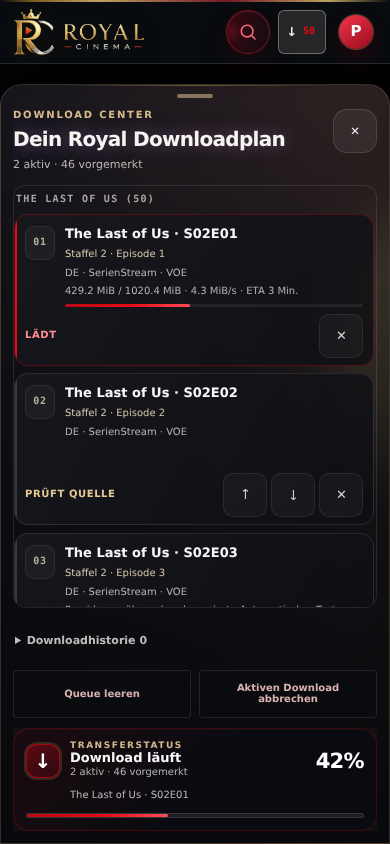
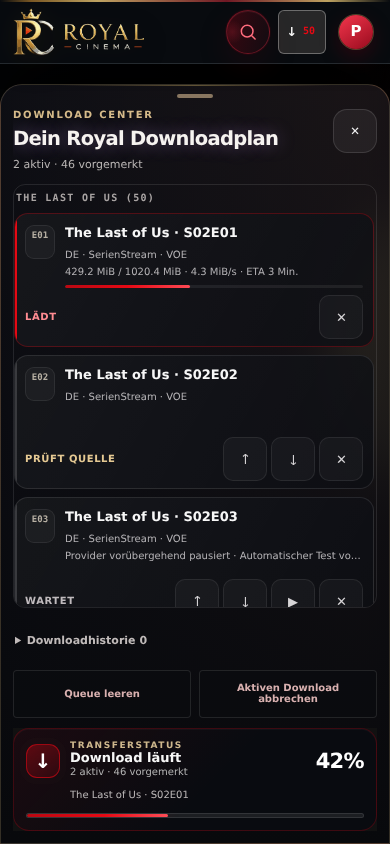
style(ui): refine compact mobile cards and verify artwork contrast

diff --git a/web/styles/catalog-polish.css b/web/styles/catalog-polish.css
@@ -1284,7 +1284,7 @@
   #queue-dock .queue-wallpaper img.is-visible { opacity: .8; }
   #queue-dock .queue-wallpaper::after {
     content: ""; position: absolute; inset: 0;
-    background: linear-gradient(180deg, rgba(5, 7, 12, .48), rgba(5, 7, 12, .78) 48%, #08090c), linear-gradient(90deg, rgba(8, 9, 12, .3), transparent);
+    background: linear-gradient(180deg, rgba(5, 7, 12, .74), rgba(5, 7, 12, .82) 48%, #08090c), linear-gradient(90deg, rgba(8, 9, 12, .3), transparent);
   }
   body.queue-open .queue-backdrop { background: rgba(0, 0, 0, .72); backdrop-filter: none; -webkit-backdrop-filter: none; }
   #queue-dock .queue-desktop-copy { display: none; }
@@ -1294,7 +1294,7 @@
   #queue-dock .queue-drawer-main > .panel-head { align-items: flex-start; gap: 8px; margin: 0 0 12px; }
   #queue-dock .queue-drawer-heading { display: grid; min-width: 0; gap: 5px; }
   #queue-dock .queue-drawer-kicker { font: 700 10px/1.3 "DM Sans", sans-serif; color: #d6bb8a; letter-spacing: .18em; }
-  #queue-dock .queue-drawer-heading .panel-title { color: #f6f3f0; font: 650 20px/1.25 "DM Sans", sans-serif; letter-spacing: -.035em; }
+  #queue-dock .queue-drawer-heading .panel-title { color: #f6f3f0; font: 650 clamp(16px, 5vw, 20px)/1.25 "DM Sans", sans-serif; letter-spacing: -.035em; }
   #queue-dock .queue-summary { color: #b8b4b3; font: 500 11px/1.4 "DM Sans", sans-serif; }
   #queue-dock #mobile-queue-close { display: grid; place-items: center; flex: 0 0 44px; width: 44px; height: 44px; margin: 0; padding: 0; background: rgba(255, 255, 255, .06); border: 1px solid rgba(255, 255, 255, .12); border-radius: 14px; }
   #queue-dock .queue-list { flex: 1 1 auto; min-height: 80px; padding: 0 2px 0 0; background: transparent; overflow-y: auto; overscroll-behavior: contain; scrollbar-width: thin; }
@@ -1309,6 +1309,8 @@
   }
   #queue-dock .queue-item:hover { transform: none; }
   #queue-dock .queue-position { width: 30px; height: 34px; align-self: start; color: #b7b0a3; font-size: 10px; }
+  #queue-dock .queue-position[data-episode] { font-size: 0; }
+  #queue-dock .queue-position[data-episode]::after { grid-area: 1 / 1; content: attr(data-episode); font-size: 9px; }
   #queue-dock .queue-item-content { gap: 4px; }
   #queue-dock .queue-item-title { display: -webkit-box; -webkit-box-orient: vertical; -webkit-line-clamp: 2; white-space: normal; overflow-wrap: anywhere; font-size: 13px; line-height: 1.35; }
   #queue-dock .queue-item-episode { color: #d5c7ae; font: 500 10px/1.35 "DM Sans", sans-serif; }

diff --git a/web/js/features/downloads/view.js b/web/js/features/downloads/view.js
@@ -97,6 +97,11 @@ function renderQueue(payload) {
       row.dataset.status = queueStatus(item);
       const position = document.createElement("span");
       position.className = "queue-position";
+      const episode = queueEpisode(item.slug);
+      if (episode) {
+        position.dataset.episode = `E${String(episode.episode).padStart(2, "0")}`;
+        position.setAttribute("aria-label", `Staffel ${episode.season}, Episode ${episode.episode}`);
+      }
       position.textContent = String(queuePosition).padStart(2, "0");
       const content = document.createElement("span");
       content.className = "queue-item-content";
@@ -117,10 +122,12 @@ function renderQueue(payload) {
       const progressFill = document.createElement("i");
       progressFill.style.width = `${Math.max(0, Math.min(100, Number(item.progress) || 0))}%`;
       progress.appendChild(progressFill);
-      const episode = queueEpisode(item.slug);
+      const titleEpisode = String(item.title || "").match(/\bS(\d{1,2})E(\d{1,3})\b/i);
+      const hasEpisodeTitle = episode && titleEpisode
+        && Number(titleEpisode[1]) === episode.season && Number(titleEpisode[2]) === episode.episode;
       const episodeCopy = document.createElement("span");
       episodeCopy.className = "queue-mobile-copy queue-item-episode";
-      episodeCopy.textContent = episode ? `Staffel ${episode.season} · Episode ${episode.episode}` : "";
+      episodeCopy.textContent = episode && !hasEpisodeTitle ? `Staffel ${episode.season} · Episode ${episode.episode}` : "";
       content.append(title, episodeCopy, route, metrics, progress);
 
       const status = document.createElement("span");

diff --git a/tests/test_download_dock_presentation.py b/tests/test_download_dock_presentation.py
@@ -112,3 +112,28 @@ def test_mobile_center_wallpaper_is_decorative_and_separate_from_controls():
     assert parser.artwork_images == 2
     assert "queue-summary" in parser.ids
     assert "download-current" in parser.ids
+
+
+def test_mobile_header_contrast_survives_maximum_white_artwork():
+    import re
+
+    mobile = CSS.split("/* Mobile Download Center:", 1)[1].split("/* ── Royal Transfer Deck", 1)[0]
+    opacity = float(re.search(r"img\.is-visible \{ opacity: ([.0-9]+)", mobile)[1])
+    overlay = re.search(r"background: linear-gradient\(180deg, rgba\((\d+), (\d+), (\d+), ([.0-9]+)\)", mobile)
+    tint = tuple(int(overlay[index]) for index in (1, 2, 3))
+    alpha = float(overlay[4])
+    # A completely white image over the brightest channel of the neutral surface.
+    # Ignore the additional horizontal dark gradient: this is the lighter bound.
+    neutral = tuple(int("38201c"[index:index + 2], 16) for index in (0, 2, 4))
+    background = tuple((255 * opacity + base * (1 - opacity)) * (1 - alpha) + channel * alpha
+                       for base, channel in zip(neutral, tint))
+
+    def luminance(rgb):
+        linear = [(value / 255 / 12.92 if value / 255 <= 0.04045
+                   else ((value / 255 + 0.055) / 1.055) ** 2.4) for value in rgb]
+        return sum(value * weight for value, weight in zip(linear, (0.2126, 0.7152, 0.0722)))
+
+    for selector in ("queue-summary", "queue-drawer-kicker"):
+        color = re.search(r"#queue-dock \." + selector + r" \{[^}]*color: #([a-f0-9]{6})", mobile)[1]
+        foreground = tuple(int(color[index:index + 2], 16) for index in (0, 2, 4))
+        assert (luminance(foreground) + 0.05) / (luminance(background) + 0.05) >= 4.5

diff --git a/docs/ui/mobile-download-center/README.md b/docs/ui/mobile-download-center/README.md
@@ -22,6 +22,11 @@ existing artwork policy at bounded `w500` resolution. A visible-sheet-only metad
 recheck accommodates late hydration without fetching metadata. Failed images keep
 the neutral background and never become a queue error.
 
+Episode badges use the verified episode slug; an existing matching title code
+avoids a redundant metadata line. The mobile heading scales down on narrow
+screens. The wallpaper gradient also has a worst-case white-artwork contrast
+contract for the small header text (at least 4.5:1).
+
 Queue nodes and their listeners are reused for unchanged card structure. Progress
 updates look up the job directly. History rows are created only when expanded;
 unchanged history snapshots retain their DOM. Controls preserve the existing
